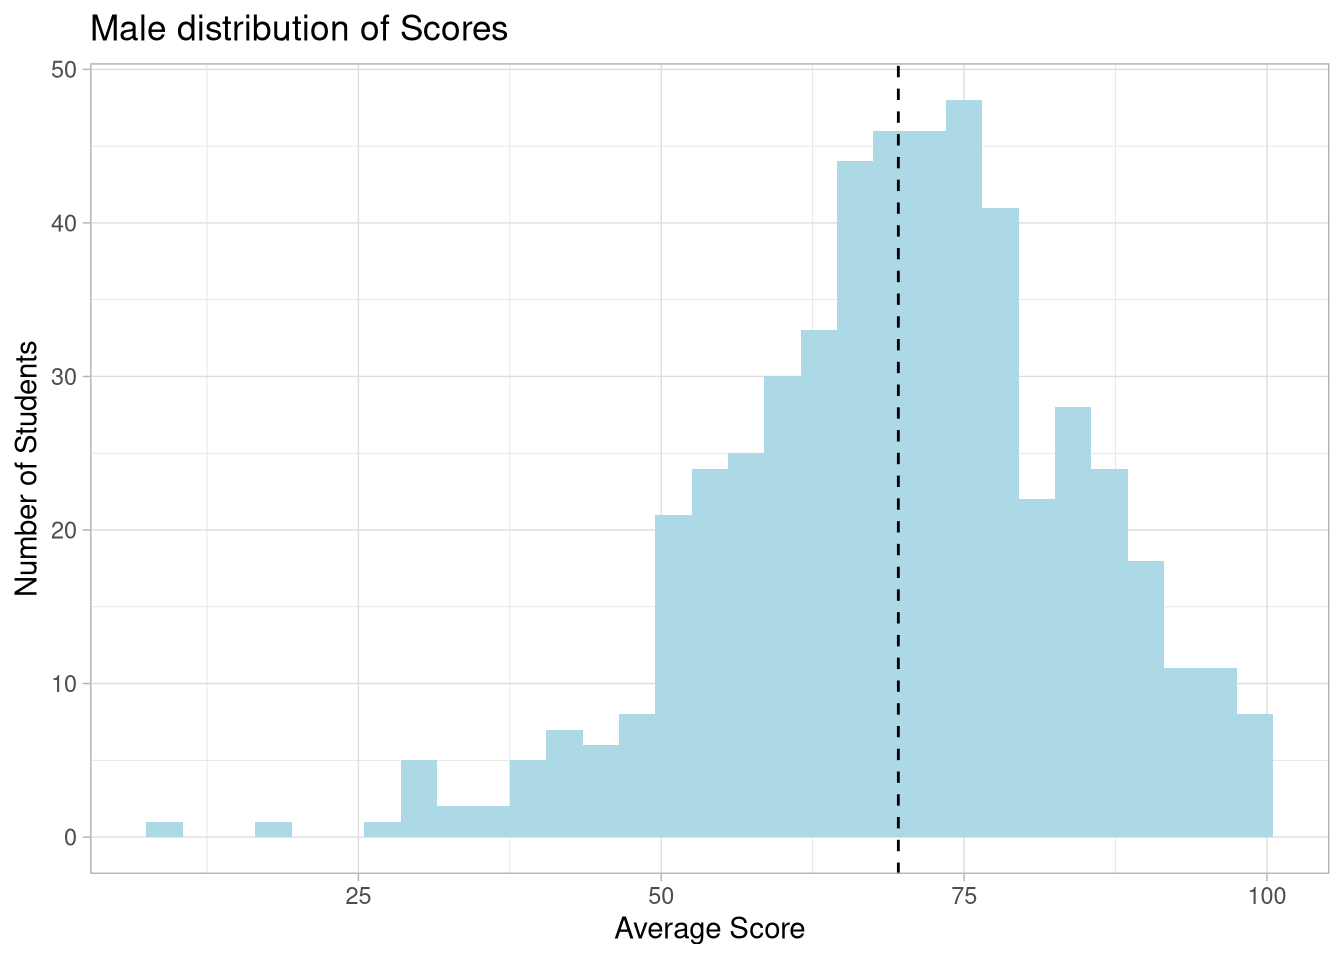
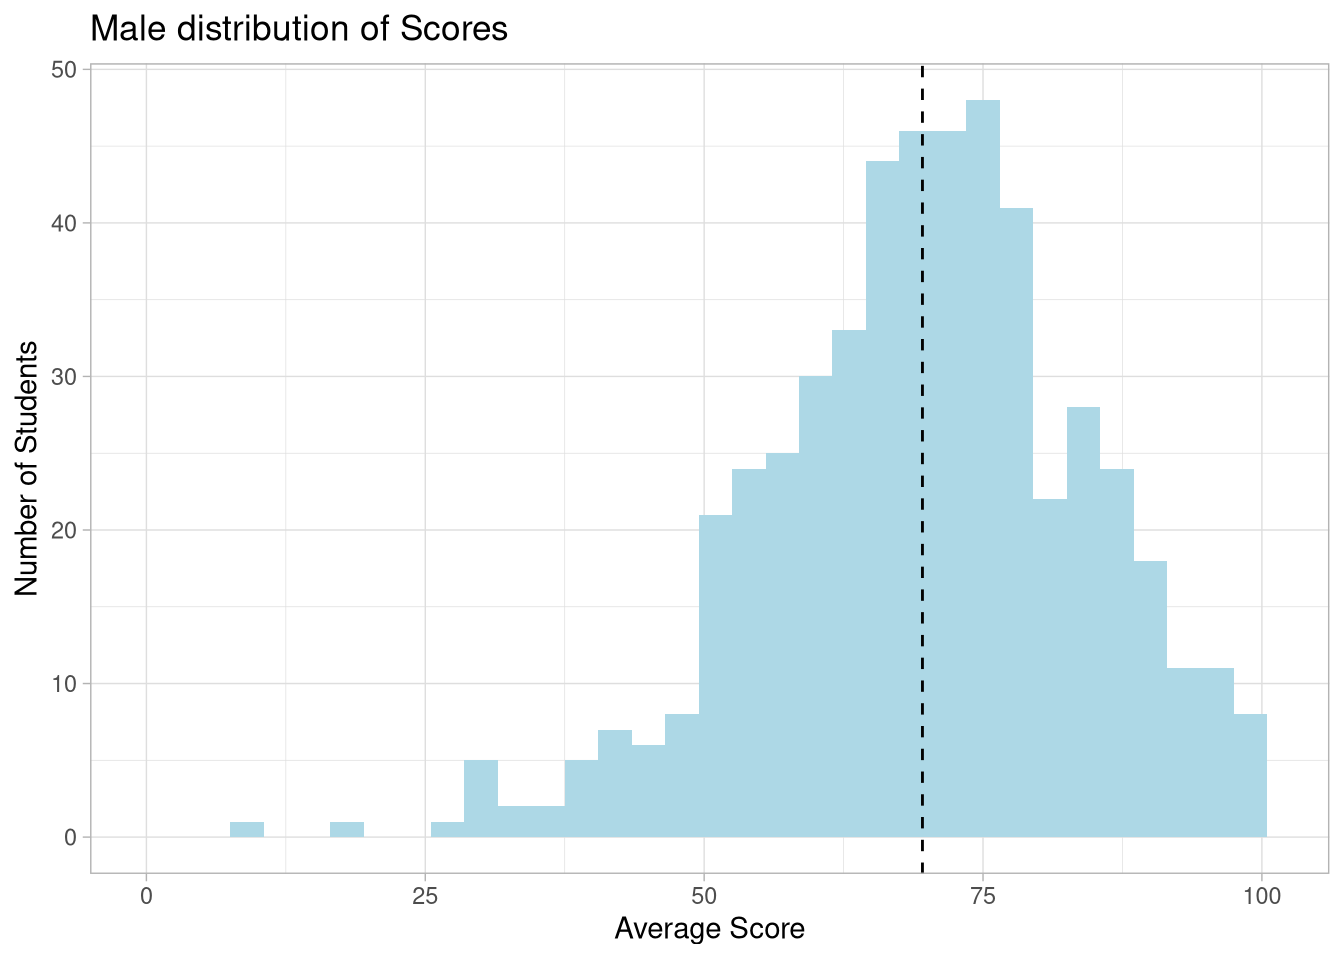
l

diff --git a/docs/projects/Student-Exam-Analysis.html b/docs/projects/Student-Exam-Analysis.html
@@ -373,20 +373,20 @@ pre > code.sourceCode > span > a:first-child::before { text-decoration: underlin
 <div class="sourceCode cell-code" id="cb10"><pre class="sourceCode r code-with-copy"><code class="sourceCode r"><span id="cb10-1"><a href="#cb10-1" aria-hidden="true" tabindex="-1"></a>male_data <span class="ot">&lt;-</span> data1 <span class="sc">%&gt;%</span> <span class="fu">filter</span>(gender <span class="sc">==</span> <span class="st">'Male'</span>)</span>
 <span id="cb10-2"><a href="#cb10-2" aria-hidden="true" tabindex="-1"></a>female_data <span class="ot">&lt;-</span>data1 <span class="sc">%&gt;%</span> <span class="fu">filter</span>(gender <span class="sc">==</span> <span class="st">'Female'</span>)</span>
 <span id="cb10-3"><a href="#cb10-3" aria-hidden="true" tabindex="-1"></a></span>
-<span id="cb10-4"><a href="#cb10-4" aria-hidden="true" tabindex="-1"></a><span class="fu">ggplot</span>(male_data, <span class="fu">aes</span>(<span class="at">x =</span> average_score))<span class="sc">+</span><span class="fu">geom_histogram</span>(<span class="at">binwidth =</span> <span class="dv">3</span>, <span class="at">fill =</span> <span class="st">'lightblue'</span>) <span class="sc">+</span> <span class="fu">theme_light</span>() <span class="sc">+</span> <span class="fu">xlab</span>(<span class="st">'Average Score'</span>) <span class="sc">+</span> <span class="fu">ylab</span>(<span class="st">'Number of Students'</span>) <span class="sc">+</span> <span class="fu">labs</span>(<span class="at">title =</span> <span class="st">'Male distribution of Scores'</span>) <span class="sc">+</span> <span class="fu">geom_vline</span>(<span class="fu">aes</span>(<span class="at">xintercept =</span> <span class="fu">mean</span>(male_data<span class="sc">$</span>average_score)), <span class="at">linetype =</span> <span class="st">'dashed'</span>, <span class="at">fill =</span> <span class="st">'lightgrey'</span>)</span></code><button title="Copy to Clipboard" class="code-copy-button"><i class="bi"></i></button></pre></div>
+<span id="cb10-4"><a href="#cb10-4" aria-hidden="true" tabindex="-1"></a><span class="fu">ggplot</span>(male_data, <span class="fu">aes</span>(<span class="at">x =</span> average_score))<span class="sc">+</span><span class="fu">geom_histogram</span>(<span class="at">binwidth =</span> <span class="dv">3</span>, <span class="at">fill =</span> <span class="st">'lightblue'</span>) <span class="sc">+</span> <span class="fu">theme_light</span>() <span class="sc">+</span> <span class="fu">xlab</span>(<span class="st">'Average Score'</span>) <span class="sc">+</span> <span class="fu">ylab</span>(<span class="st">'Number of Students'</span>) <span class="sc">+</span> <span class="fu">labs</span>(<span class="at">title =</span> <span class="st">'Male distribution of Scores'</span>) <span class="sc">+</span> <span class="fu">geom_vline</span>(<span class="fu">aes</span>(<span class="at">xintercept =</span> <span class="fu">mean</span>(male_data<span class="sc">$</span>average_score)), <span class="at">linetype =</span> <span class="st">'dashed'</span>, <span class="at">fill =</span> <span class="st">'lightgrey'</span>)<span class="sc">+</span><span class="fu">xlim</span>(<span class="dv">0</span>,<span class="dv">101</span>)</span></code><button title="Copy to Clipboard" class="code-copy-button"><i class="bi"></i></button></pre></div>
 </details>
 <div class="cell-output-display">
 <p><img src="Student-Exam-Analysis_files/figure-html/unnamed-chunk-12-1.png" class="img-fluid" width="672"></p>
 </div>
 <details>
 <summary>Code</summary>
-<div class="sourceCode cell-code" id="cb11"><pre class="sourceCode r code-with-copy"><code class="sourceCode r"><span id="cb11-1"><a href="#cb11-1" aria-hidden="true" tabindex="-1"></a><span class="fu">ggplot</span>(female_data, <span class="fu">aes</span>(<span class="at">x =</span> average_score))<span class="sc">+</span><span class="fu">geom_histogram</span>(<span class="at">binwidth =</span> <span class="dv">3</span>, , <span class="at">fill =</span> <span class="st">'lightpink'</span>) <span class="sc">+</span> <span class="fu">theme_light</span>() <span class="sc">+</span> <span class="fu">xlab</span>(<span class="st">'Average Score'</span>) <span class="sc">+</span> <span class="fu">ylab</span>(<span class="st">'Number of Students'</span>) <span class="sc">+</span> <span class="fu">labs</span>(<span class="at">title =</span> <span class="st">'Female distribution of Scores'</span>)<span class="sc">+</span> <span class="fu">geom_vline</span>(<span class="fu">aes</span>(<span class="at">xintercept =</span><span class="fu">mean</span>(female_data<span class="sc">$</span>average_score)), <span class="at">linetype =</span> <span class="st">'dashed'</span>, <span class="at">fill =</span> <span class="st">'lightgrey'</span>)</span></code><button title="Copy to Clipboard" class="code-copy-button"><i class="bi"></i></button></pre></div>
+<div class="sourceCode cell-code" id="cb11"><pre class="sourceCode r code-with-copy"><code class="sourceCode r"><span id="cb11-1"><a href="#cb11-1" aria-hidden="true" tabindex="-1"></a><span class="fu">ggplot</span>(female_data, <span class="fu">aes</span>(<span class="at">x =</span> average_score))<span class="sc">+</span><span class="fu">geom_histogram</span>(<span class="at">binwidth =</span> <span class="dv">3</span>, , <span class="at">fill =</span> <span class="st">'lightpink'</span>) <span class="sc">+</span> <span class="fu">theme_light</span>() <span class="sc">+</span> <span class="fu">xlab</span>(<span class="st">'Average Score'</span>) <span class="sc">+</span> <span class="fu">ylab</span>(<span class="st">'Number of Students'</span>) <span class="sc">+</span> <span class="fu">labs</span>(<span class="at">title =</span> <span class="st">'Female distribution of Scores'</span>)<span class="sc">+</span> <span class="fu">geom_vline</span>(<span class="fu">aes</span>(<span class="at">xintercept =</span><span class="fu">mean</span>(female_data<span class="sc">$</span>average_score)), <span class="at">linetype =</span> <span class="st">'dashed'</span>, <span class="at">fill =</span> <span class="st">'lightgrey'</span>) <span class="sc">+</span><span class="fu">xlim</span>(<span class="dv">0</span>,<span class="dv">101</span>)</span></code><button title="Copy to Clipboard" class="code-copy-button"><i class="bi"></i></button></pre></div>
 </details>
 <div class="cell-output-display">
 <p><img src="Student-Exam-Analysis_files/figure-html/unnamed-chunk-12-2.png" class="img-fluid" width="672"></p>
 </div>
 </div>
-<p>The dotted line represents the mean score for females and males respectively. Looking at the distribution and dotted line we can see that males did considerably better on average at this test than the females. We can look even further by comparing the scores of each section; math, reading, and writing.</p>
+<p>The dotted line represents the mean score for females and males respectively. Looking at the distribution and dotted line we can see that males did slightly better on the test on average. We can look even further by comparing the scores of each section; math, reading, and writing.</p>
 <div class="cell">
 <details>
 <summary>Code</summary>
@@ -418,12 +418,12 @@ pre > code.sourceCode > span > a:first-child::before { text-decoration: underlin
 <p><img src="Student-Exam-Analysis_files/figure-html/unnamed-chunk-13-3.png" class="img-fluid" width="672"></p>
 </div>
 </div>
-<p>From the distributions, there is nothing that we can definitively derive from the graphs. The males do slightly better than females on average in every subject.</p>
+<p>From the distributions, there is nothing that we can definitively derive from the graphs. The males did insignificantly better on the subject scores as the females.</p>
 </section>
 <section id="conclusion" class="level1">
 <h1>Conclusion</h1>
 <hr>
-<p>In this analysis, we looked at four different variables and how effective they are at predicting success on the test through many metrics such as letter grade, average score, math score, reading score, and writing score. We closely analyzed three different variables to used for this prediction: parental level of education, gender, if the student ate lunch, and if the student took the prep course. We found that both eating lunch and taking the prep course were both indicators that a student was more likely to do well on the test. On average, we saw a small increase in score for those who had parents who had higher levels of education and we also found that males did better on average on this test than females, but not decided by exactly one category of the test.</p>
+<p>In this analysis, we looked at four different variables and how effective they are at predicting success on the test through many metrics such as letter grade, average score, math score, reading score, and writing score. We closely analyzed three different variables to used for this prediction: parental level of education, gender, if the student ate lunch, and if the student took the prep course. We found that both eating lunch and taking the prep course were both indicators that a student was more likely to do well on the test. On average, we saw a small increase in score for those who had parents who had higher levels of education and we also found that males did slightly better on average on this test than females.</p>
 
 
 </section>
